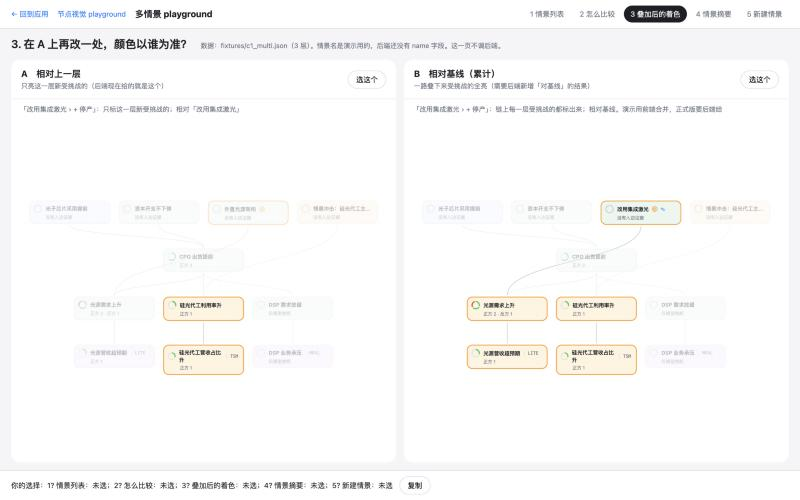
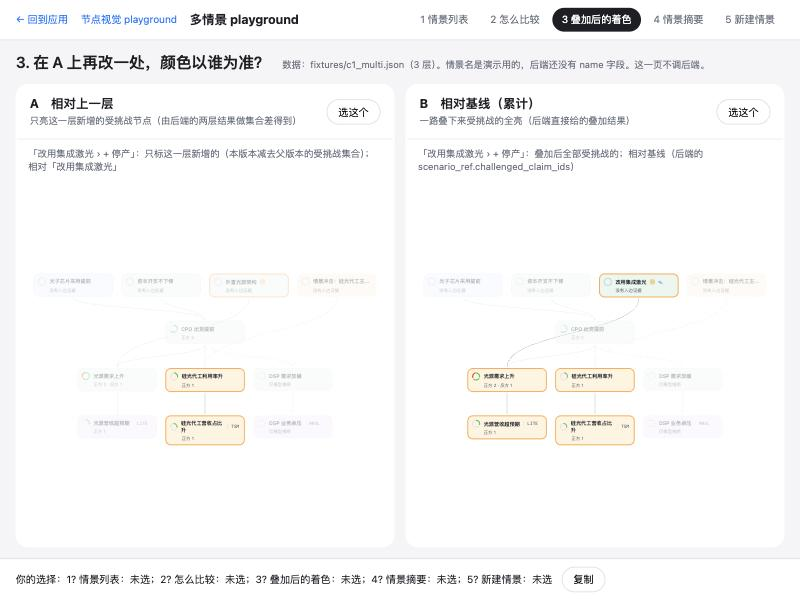
web: follow cumulative stacked scenarios (root_version)
Cumulative challenges come straight from scenario_ref.challenged_claim_ids;
'new in this layer' is this version's challenged minus the parent's.

diff --git a/web/src/scenarios/ScenarioPlayground.tsx b/web/src/scenarios/ScenarioPlayground.tsx
@@ -8,7 +8,8 @@ import { GATE, SUPPORT } from '../status';
 import Badge from '../components/Badge';
 import ScenarioCanvas from './ScenarioCanvas';
 import {
-  challenged, childrenOf, chain, cumulativeColoring, fullName, relativeColoring, rootOf, scenarioIds, scenarioName,
+  childrenOf, chain, cumulativeChallenged, cumulativeColoring, fullName, layerColoring, newChallenged, rootOf,
+  scenarioIds, scenarioName,
   type Versions,
 } from './model';
 import '../playground/playground.css';
@@ -35,7 +36,7 @@ function Segmented({ versions }: { versions: Versions }) {
           <button key={v} className={v === cur ? 'on' : ''} onClick={() => setCur(v)}>{fullName(versions, v)}</button>
         ))}
       </div>
-      <ScenarioCanvas bundle={versions[cur]} coloring={versions[cur].scenario ? relativeColoring(versions[cur]) : undefined} />
+      <ScenarioCanvas bundle={versions[cur]} coloring={versions[cur].scenario ? cumulativeColoring(versions, cur) : undefined} />
     </div>
   );
 }
@@ -48,7 +49,7 @@ function Tree({ versions }: { versions: Versions }) {
       <button className={`sc-tree-row${v === cur ? ' on' : ''}`} style={{ paddingLeft: 10 + depth * 18 }} onClick={() => setCur(v)}>
         {depth > 0 && <span className="sc-branch">└</span>}
         <span>{scenarioName(versions, v)}</span>
-        {versions[v].scenario && <span className="sc-count">{challenged(versions[v]).length}</span>}
+        {versions[v].scenario && <span className="sc-count">{newChallenged(versions, v).length}</span>}
       </button>
       {childrenOf(versions, v).map((c) => row(c, depth + 1))}
     </div>
@@ -56,7 +57,7 @@ function Tree({ versions }: { versions: Versions }) {
   return (
     <div className="sc-row">
       <nav className="sc-tree">{row(root, 0)}<div className="sc-hint">数字 = 这一层新增的受挑战前提</div></nav>
-      <ScenarioCanvas bundle={versions[cur]} coloring={versions[cur].scenario ? relativeColoring(versions[cur]) : undefined} />
+      <ScenarioCanvas bundle={versions[cur]} coloring={versions[cur].scenario ? cumulativeColoring(versions, cur) : undefined} />
     </div>
   );
 }
@@ -66,7 +67,7 @@ function Tree({ versions }: { versions: Versions }) {
 function Overlay({ versions }: { versions: Versions }) {
   const [a, b] = scenarioIds(versions).filter((v) => versions[v].scenario!.base_version === rootOf(versions));
   const tints = useMemo(() => {
-    const ca = new Set(challenged(versions[a])), cb = new Set(challenged(versions[b]));
+    const ca = new Set(cumulativeChallenged(versions[a])), cb = new Set(cumulativeChallenged(versions[b]));
     const out: Record<string, string> = {};
     for (const id of new Set([...ca, ...cb])) out[id] = ca.has(id) && cb.has(id) ? BOTH_COLOR : ca.has(id) ? A_COLOR : B_COLOR;
     return out;
@@ -90,7 +91,7 @@ function SideBySide({ versions }: { versions: Versions }) {
       {[a, b].map((v) => (
         <div key={v} className="sc-col sc-half">
           <div className="sc-half-title">{scenarioName(versions, v)}</div>
-          <ScenarioCanvas bundle={versions[v]} coloring={relativeColoring(versions[v])} compact />
+          <ScenarioCanvas bundle={versions[v]} coloring={cumulativeColoring(versions, v)} compact />
         </div>
       ))}
     </div>
@@ -107,8 +108,8 @@ function Relative({ versions }: { versions: Versions }) {
   const v = stacked(versions);
   return (
     <div className="sc-col">
-      <div className="sc-note">「{fullName(versions, v)}」：只标这一层新受挑战的；相对「{scenarioName(versions, versions[v].scenario!.base_version)}」</div>
-      <ScenarioCanvas bundle={versions[v]} coloring={relativeColoring(versions[v])} />
+      <div className="sc-note">「{fullName(versions, v)}」：只标这一层新增的（本版本减去父版本的受挑战集合）；相对「{scenarioName(versions, versions[v].scenario!.base_version)}」</div>
+      <ScenarioCanvas bundle={versions[v]} coloring={layerColoring(versions, v)} />
     </div>
   );
 }
@@ -117,7 +118,7 @@ function Cumulative({ versions }: { versions: Versions }) {
   const v = stacked(versions);
   return (
     <div className="sc-col">
-      <div className="sc-note">「{fullName(versions, v)}」：链上每一层受挑战的都标出来；相对基线。演示用前端合并，正式版要后端给</div>
+      <div className="sc-note">「{fullName(versions, v)}」：叠加后全部受挑战的；相对基线（后端的 scenario_ref.challenged_claim_ids）</div>
       <ScenarioCanvas bundle={versions[v]} coloring={cumulativeColoring(versions, v)} />
     </div>
   );
@@ -131,12 +132,12 @@ function BigNumber({ versions }: { versions: Versions }) {
     <div className="sc-cards">
       {scenarioIds(versions).map((v) => {
         const b = versions[v], p = b.proposal!, base = versions[b.scenario!.base_version].proposal!;
-        const n = challenged(b).length;
+        const n = cumulativeChallenged(b).length, added = newChallenged(versions, v).length;
         return (
           <div key={v} className="sc-card">
             <div className="sc-card-name">{fullName(versions, v)}</div>
             <div className="sc-big" style={{ color: n ? A_COLOR : '#34c759' }}>{n}</div>
-            <div className="sc-sub">个前提受挑战（这一层）</div>
+            <div className="sc-sub">个前提受挑战（相对基线），这一层新增 {added}</div>
             <div className="sc-delta">
               <span>支持度</span>
               <span style={{ color: SUPPORT[base.support_status].color }}>{base.support_status}</span>
@@ -156,7 +157,7 @@ function BigNumber({ versions }: { versions: Versions }) {
   );
 }
 
-function DotMap({ b, coloring }: { b: VersionBundle; coloring?: ReturnType<typeof relativeColoring> }) {
+function DotMap({ b, coloring }: { b: VersionBundle; coloring?: ReturnType<typeof cumulativeColoring> }) {
   const { nodes } = toFlow(b.graph);
   const xs = nodes.map((n) => n.position.x), ys = nodes.map((n) => n.position.y);
   const w = Math.max(...xs) - Math.min(...xs) || 1, h = Math.max(...ys) - Math.min(...ys) || 1;
@@ -176,7 +177,7 @@ function WatchFaces({ versions }: { versions: Versions }) {
     <div className="sc-cards">
       {[rootOf(versions), ...scenarioIds(versions)].map((v) => (
         <div key={v} className="sc-face">
-          <DotMap b={versions[v]} coloring={versions[v].scenario ? relativeColoring(versions[v]) : undefined} />
+          <DotMap b={versions[v]} coloring={versions[v].scenario ? cumulativeColoring(versions, v) : undefined} />
           <div className="sc-card-name">{fullName(versions, v)}</div>
         </div>
       ))}
@@ -206,7 +207,7 @@ function Island({ versions }: { versions: Versions }) {
   const [open, setOpen] = useState(false);
   return (
     <div className="sc-col sc-rel">
-      <ScenarioCanvas bundle={versions[f.from]} coloring={versions[f.from].scenario ? relativeColoring(versions[f.from]) : undefined} />
+      <ScenarioCanvas bundle={versions[f.from]} coloring={versions[f.from].scenario ? cumulativeColoring(versions, f.from) : undefined} />
       <div className={`sc-island${open ? ' open' : ''}`}>
         {!open ? (
           <button className="sc-island-pill" onClick={() => setOpen(true)}>＋ 假如…<span>在「{fullName(versions, f.from)}」上</span></button>
@@ -238,7 +239,7 @@ function SideForm({ versions }: { versions: Versions }) {
   const f = useCreate(versions);
   return (
     <div className="sc-row">
-      <ScenarioCanvas bundle={versions[f.from]} coloring={versions[f.from].scenario ? relativeColoring(versions[f.from]) : undefined} />
+      <ScenarioCanvas bundle={versions[f.from]} coloring={versions[f.from].scenario ? cumulativeColoring(versions, f.from) : undefined} />
       <aside className="sc-form">
         <label>从哪个版本出发</label>
         <select value={f.from} onChange={(e) => f.setFrom(e.target.value)}>
@@ -269,8 +270,8 @@ const GROUNDS: Ground[] = [
     A: { name: '一张图叠色', desc: '在基线上按情景上色：橙 = A，蓝 = B，紫 = 两个都受挑战', render: (v) => <Overlay versions={v} /> },
     B: { name: '左右并排', desc: '两张小图并排，各自按自己的情景着色', render: (v) => <SideBySide versions={v} /> } },
   { key: 'stack', title: '叠加后的着色', question: '在 A 上再改一处，颜色以谁为准？',
-    A: { name: '相对上一层', desc: '只亮这一层新受挑战的（后端现在给的就是这个）', render: (v) => <Relative versions={v} /> },
-    B: { name: '相对基线（累计）', desc: '一路叠下来受挑战的全亮（需要后端新增「对基线」的结果）', render: (v) => <Cumulative versions={v} /> } },
+    A: { name: '相对上一层', desc: '只亮这一层新增的受挑战节点（由后端的两层结果做集合差得到）', render: (v) => <Relative versions={v} /> },
+    B: { name: '相对基线（累计）', desc: '一路叠下来受挑战的全亮（后端直接给的叠加结果）', render: (v) => <Cumulative versions={v} /> } },
   { key: 'summary', title: '情景摘要', question: '不点进去，怎么一眼看出每个情景的影响？',
     A: { name: '大数字卡片', desc: 'Robinhood 式：一个大数字 + 支持度怎么变 + gate', render: (v) => <BigNumber versions={v} /> },
     B: { name: '表盘点阵', desc: 'Apple Watch 式：每个情景一个缩略点阵，形状就是这张图', render: (v) => <WatchFaces versions={v} /> } },

diff --git a/web/src/scenarios/model.ts b/web/src/scenarios/model.ts
@@ -1,4 +1,4 @@
-// 多情景 playground 的只读辅助：版本链、演示名、按层合并的着色。不做判断，只组合后端已给的 assessment。
+// 多情景 playground 的只读辅助：版本链、演示名、两种着色。不做判断：累计结果是后端给的，「这一层新增」只做集合差。
 import { changedTargets } from '../lookup';
 import type { AssessmentStatus, VersionBundle } from '../types';
 
@@ -31,7 +31,7 @@ const DEMO_NAMES: Record<string, string> = { 'c1-v2': '改用集成激光', 'c1-
 
 export function scenarioName(versions: Versions, v: string): string {
   if (!versions[v]?.scenario) return '基线';
-  const op = versions[v].scenario!.ops[0];
+  const op = versions[v].scenario!.ops.at(-1); // 叠加时 ops 继承父情景，最后一个是这一层的
   return DEMO_NAMES[v] ?? String(op?.value ?? v).slice(0, 10);
 }
 
@@ -49,16 +49,39 @@ export interface Coloring {
   changed: string[];
 }
 
-/** 相对上一层：后端给的 assessment 原样。 */
-export function relativeColoring(b: VersionBundle): Coloring {
-  return { assessment: b.scenario?.assessment ?? {}, changed: changedTargets(b.scenario) };
+function coloringOf(b: VersionBundle, lit: string[], changed: string[]): Coloring {
+  const set = new Set(lit);
+  const assessment: Record<string, AssessmentStatus> = {};
+  for (const n of b.graph.nodes) assessment[n.id] = set.has(n.id) ? 'challenged' : 'unaffected';
+  return { assessment, changed };
 }
 
-/** 相对基线（累计）：把链上每一层后端给的 challenged 合起来。正式版应由后端给出，这里只为演示这种读法。 */
+/** 这一层新增的受挑战节点：本版本 assessment 的 challenged 减去父版本的（只做集合差，不判断因果）。 */
+export function newChallenged(versions: Versions, v: string): string[] {
+  const parent = versions[v].scenario?.base_version;
+  const prev = new Set(parent ? challenged(versions[parent]) : []);
+  return challenged(versions[v]).filter((id) => !prev.has(id));
+}
+
+/** 这一层的操作：叠加时 ops 继承父情景，所以去掉父版本已有的那几个。 */
+function layerOps(versions: Versions, v: string) {
+  const ops = versions[v].scenario?.ops ?? [];
+  const parent = versions[v].scenario?.base_version;
+  return ops.slice(versions[parent ?? '']?.scenario?.ops.length ?? 0);
+}
+
+/** 相对上一层：只亮这一层新增的受挑战节点和这一层改动的假设。 */
+export function layerColoring(versions: Versions, v: string): Coloring {
+  const changed = changedTargets({ ...versions[v].scenario!, ops: layerOps(versions, v) });
+  return coloringOf(versions[v], newChallenged(versions, v), changed);
+}
+
+/** 相对基线（累计）：直接用后端给的 scenario_ref.challenged_claim_ids（叠加后的全部结果）。 */
+export function cumulativeChallenged(b: VersionBundle): string[] {
+  return b.proposal?.scenario_ref?.challenged_claim_ids ?? challenged(b);
+}
+
 export function cumulativeColoring(versions: Versions, v: string): Coloring {
-  const layers = chain(versions, v).slice(1).map((x) => versions[x]);
-  const lit = new Set(layers.flatMap(challenged));
-  const assessment: Record<string, AssessmentStatus> = {};
-  for (const n of versions[v].graph.nodes) assessment[n.id] = lit.has(n.id) ? 'challenged' : 'unaffected';
-  return { assessment, changed: [...new Set(layers.flatMap((b) => changedTargets(b.scenario)))] };
+  const b = versions[v];
+  return coloringOf(b, cumulativeChallenged(b), changedTargets(b.scenario));
 }

diff --git a/web/src/__tests__/scenarios.test.ts b/web/src/__tests__/scenarios.test.ts
@@ -1,26 +1,40 @@
 import { describe, expect, it } from 'vitest';
 import fixture from '../../fixtures/c1_multi.json';
-import { chain, challenged, cumulativeColoring, fullName, relativeColoring, rootOf, scenarioIds } from '../scenarios/model';
+import {
+  chain, cumulativeChallenged, cumulativeColoring, fullName, layerColoring, newChallenged, rootOf, scenarioIds,
+} from '../scenarios/model';
 import type { Fixture } from '../types';
 
 const v = (fixture as unknown as Fixture).versions;
+const lit = (a: Record<string, string>) => Object.entries(a).filter(([, s]) => s === 'challenged').map(([id]) => id).sort();
 
 describe('多情景辅助', () => {
-  it('版本链与根', () => {
+  it('版本链、根与名字', () => {
     expect(rootOf(v)).toBe('c1-v1');
     expect(scenarioIds(v)).toEqual(['c1-v2', 'c1-v3', 'c1-v4']);
     expect(chain(v, 'c1-v4')).toEqual(['c1-v1', 'c1-v2', 'c1-v4']);
+    expect(v['c1-v4'].scenario!.root_version).toBe('c1-v1');
     expect(fullName(v, 'c1-v4')).toBe('改用集成激光 › + 停产');
   });
-  it('相对上一层：只用后端给的这一层', () => {
-    expect(Object.entries(relativeColoring(v['c1-v4']).assessment).filter(([, s]) => s === 'challenged').map(([id]) => id).sort())
-      .toEqual(['c1.siph_foundry', 'c1.term.foundry']);
-  });
-  it('累计：链上每层的 challenged 合起来，改动的假设也带上', () => {
-    const c = cumulativeColoring(v, 'c1-v4');
-    expect(Object.entries(c.assessment).filter(([, s]) => s === 'challenged').map(([id]) => id).sort())
+
+  it('累计：直接用后端给的 scenario_ref.challenged_claim_ids（叠加后的全部）', () => {
+    expect([...cumulativeChallenged(v['c1-v4'])].sort())
       .toEqual(['c1.laser_demand', 'c1.siph_foundry', 'c1.term.foundry', 'c1.term.laser_vendor']);
-    expect(c.changed).toEqual(['c1.assume.external_laser']);
-    expect(challenged(v['c1-v2']).sort()).toEqual(['c1.laser_demand', 'c1.term.laser_vendor']);
+    expect(lit(cumulativeColoring(v, 'c1-v4').assessment))
+      .toEqual(['c1.laser_demand', 'c1.siph_foundry', 'c1.term.foundry', 'c1.term.laser_vendor']);
+    expect(cumulativeColoring(v, 'c1-v4').changed).toEqual(['c1.assume.external_laser']);
+  });
+
+  it('这一层新增：本版本减去父版本的受挑战集合', () => {
+    expect(newChallenged(v, 'c1-v4').sort()).toEqual(['c1.siph_foundry', 'c1.term.foundry']);
+    expect(newChallenged(v, 'c1-v2').sort()).toEqual(['c1.laser_demand', 'c1.term.laser_vendor']);
+    expect(lit(layerColoring(v, 'c1-v4').assessment)).toEqual(['c1.siph_foundry', 'c1.term.foundry']);
+    // 这一层是加冲击，没有改假设；父层改的假设不算这一层的
+    expect(layerColoring(v, 'c1-v4').changed).toEqual([]);
+  });
+
+  it('集合差与后端 diff 一致：新增的受挑战节点都在本版本的 changed_claim_ids 里', () => {
+    const changedIds = new Set(v['c1-v4'].diff!.changed_claim_ids);
+    expect(newChallenged(v, 'c1-v4').every((id) => changedIds.has(id))).toBe(true);
   });
 });

diff --git a/web/src/types.ts b/web/src/types.ts
@@ -111,6 +111,7 @@ export interface Scenario {
   ops: Op[];
   assessment: Record<string, AssessmentStatus>;
   assessment_reason: Record<string, string>;
+  root_version: string | null; // 最初的非情景基线；叠加时 ops / assessment 都继承父情景
 }
 
 export interface Direction {
@@ -139,8 +140,9 @@ export interface UserJudgment {
 
 export interface ScenarioRef {
   base_version: string;
-  challenged_claim_ids: string[];
+  challenged_claim_ids: string[]; // 叠加后的全部受挑战 claim
   next_checks: string[];
+  root_version: string | null;
 }
 
 export interface CriticReport {

diff --git a/docs/frontend/step-by-step.md b/docs/frontend/step-by-step.md
@@ -66,3 +66,4 @@
 - 五个设计问题，各两种做法：情景列表（分段胶囊 / 版本树）、比较（叠色 / 并排）、叠加着色（相对上一层 / 相对基线）、情景摘要（大数字卡片 / 表盘点阵）、新建情景（灵动岛 / 侧边表单）。截图 `screenshots/sc1–sc5`。
 - 情景名是演示表；「相对基线」由前端把每层后端结果合起来演示，正式版需要后端给。
 - 发现的后端问题：叠加分叉（c1-v4）的提案 `support_status` 回到 supported——`derive_proposal` 只看这一层的 challenged，父情景 c1-v2 让激光路径受挑战这件事没有带下来。
+- 跟上叠加情景的修复（core-schema@bb173e1，fast-forward）：后端的 assessment 和 `scenario_ref.challenged_claim_ids` 现在都是叠加后的全部结果，Scenario 多了 `root_version`，ops 也继承父情景。前端改成：「相对基线」直接用 `scenario_ref.challenged_claim_ids`；「这一层新增」= 本版本 challenged 减去父版本 challenged（集合差），并用测试确认这些节点都在后端 diff 的 `changed_claim_ids` 里；「这一层改动的假设」只看这一层新加的 op。多情景 playground 的大部分视图默认显示相对基线，第 3 组 A 显示这一层新增，树上的数字也是这一层新增。
